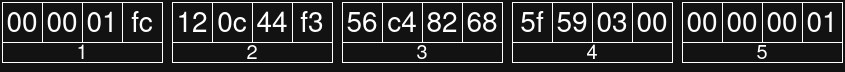
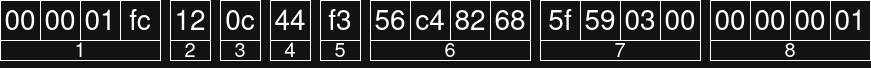
Updated DVRIP/Sofia media message header fields and their descriptions

diff --git a/dissector/README.md b/dissector/README.md
@@ -1,5 +1,6 @@
 # DVRIP_analysis
 A Wireshark dissector for DVRIP/Sofia protocol found in Xiongmai based IP cameras
+Full writeup of a sample IP camera is available at [Besder 6024PB-XMA501 IP camera security investigation](https://github.com/KostasEreksonas/Besder-6024PB-XMA501-ip-camera-security-investigation) repository.
 
 Table of Contents
 =================
@@ -23,6 +24,10 @@ Firmware version: V5.00.R02.00030747.10010.349f17
 
 Media frames are saved as bytes in `/tmp` directory (file format: 'pinfo.number'_'frame_name').
 
+DVRIP/Sofia media payloads have their own headers. All media payload header fields (except signature) are reordered to little-endian (LE) to extract their exact value.
+
+Media payload headers were reconstructed based on [Xiongmai bitstream frame format document](https://www.scribd.com/document/669666260/%E7%A0%81%E6%B5%81%E5%B8%A7%E6%A0%BC%E5%BC%8F%E6%96%87%E6%A1%A3).
+
 # DVRIP/Sofia Command Message
 
 ![DVRIP header](images/DVRIP_header.png)
@@ -35,11 +40,27 @@ Media frames are saved as bytes in `/tmp` directory (file format: 'pinfo.number'
 
 ![DVRIP audio header in Wireshark](images/Audio_header_wireshark.png)
 
+1. BIT 0-3 - signature
+2. BIT 4 - audio codec (0x0e = G711A)
+3. BIT 5 - sampling rate (0x02 = 8kHz sampling)
+4. BIT 6-7 - length of audio payload
+
 # I-Frame Header
 
 ![DVRIP I-Frame header](images/Iframe_header.png)
 
 ![DVRIP I-Frame in Wireshark](images/Iframe_header_wireshark.png)
+
+1. BIT 0-3 - signature
+2. BIT 4 - video codec (0x01 = MPEG4, 0x02 = H.264, 0x12 = H.265)
+3. BIT 5 - encoded framerate (variable; 1-25 for PAL, 1-30 for NTSC)
+4. BIT 6 - low 8 bits of image width; the value is actual width divided by 8
+5. BIT 7 - low 8 bits of image height; the value is actual height divided by 8
+6. BIT 8-11 - datetime of the capture
+7. BIT 12-15 - length of I-Frame payload
+8. BIT 16-19 - unknown value, observed to always be equal to 1
+
+Same exact header fields are shared between I-Frames (FC) and snapshots (FE).
 
 # P-Frame Header
 
@@ -47,8 +68,20 @@ Media frames are saved as bytes in `/tmp` directory (file format: 'pinfo.number'
 
 ![DVRIP P-Frame in Wireshark](images/Pframe_header_wireshark.png)
 
+Extension of I-Frames.
+
+1. BIT 0-3 - signature
+2. BIT 4-7 - length of P-Frame payload
+3. BIT 8-11 - unknown value, always observed to be equal to 1
+
 # E-Frame Header
 
 ![DVRIP E-Frame header](images/Eframe_header.png)
 
 ![DVRIP E-Frame in Wireshark](images/Eframe_header_wireshark.png)
+
+
+Used for information transmission. First byte after signature (byte 4):
+
+1. 0x01 - general information.
+2. 0x06 - unknown value.
